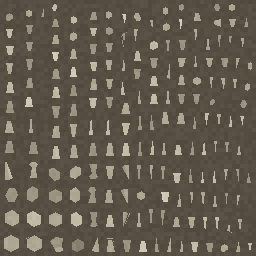
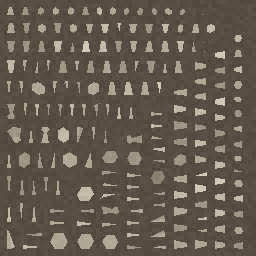
fauna: the Sapscrap's UVs are fixed, and the gate's last false positive with them
The shell shipped with faces 52 (8-gon) and 55 (6-gon) — sharing no vertex and no UV
corner — projecting to near-degenerate slivers that landed on the same two texels.
smart_project's own island_margin does not guarantee separation, and the obvious
remedies all fail: lowering angle_limit to 45/33/25 gives 18/26/6 folds against 2,
triangulating first gives 115, raising the margin to 0.05/0.09 gives 1/2. An explicit
pack_islands(margin=0.02) pass after the projection gives ZERO, and lifts coverage
from about 114k texels to 132k by packing tighter.

smart_project is also non-deterministic here — re-projecting at shipped settings gives
4 folds where the file had 2 — so any fix that merely tuned its parameters could never
have been trusted.

The gate's own false positive is closed with it. After packing, the audit still
reported 1 fold on a texel owned by faces 9 and 219, which share 2 vertices — an edge.
A texel centre landing exactly on a shared edge tests inside both faces under even-odd
point-in-polygon, so adjacency read as folding. That artefact scales with mesh density,
which is why triangulation showed 115. The check now ignores pairs sharing an edge.

Verified both ways: Sapscrap UV AUDIT PASS, the injected total-fold red proof still
FAILs, and candid/gnawer/meeb/naturalizer/hidra all still PASS. Repainted and
re-exported; scene load 8996/0.

gate_sapscrap.py could not run: it drives the live Blender session and expects
[…]

Changed region(s): [[0.0, 0.0, 1.0, 1.0], [0.5938, 0.0, 0.7188, 0.125], [0.0938, 0.375, 0.1562, 0.4688]]

diff --git a/to-rust-as-we-fall/docs/SHEET_AUDIT_BACKLOG.md b/to-rust-as-we-fall/docs/SHEET_AUDIT_BACKLOG.md
@@ -2319,3 +2319,42 @@ different islands by construction rather than by packing luck.
 
 I did not ship a change. Margin 0.05 is a measurable improvement but not a fix, and
 given the projector's non-determinism it would be luck rather than a correction.
+
+### sapscrap UVs — FIXED, and the gate's last false positive with it
+
+Director: the Sapscrap art is approved and the UVs are what need correcting. Done.
+
+**The fix is an explicit `pack_islands` pass after `smart_project`.** The shell shipped
+with faces 52 (8-gon) and 55 (6-gon) — sharing no vertex and no UV corner — projecting
+to near-degenerate slivers that landed on the same two texels. `smart_project`'s own
+`island_margin` does not guarantee separation. Measured across the alternatives:
+
+| attempt | folds |
+|---|---|
+| shipped (`angle_limit` 60, `island_margin` 0.02) | 2 |
+| lower `angle_limit` 45 / 33 / 25 | 18 / 26 / 6 |
+| triangulate first | 115 |
+| raise `island_margin` 0.05 / 0.09 | 1 / 2 |
+| **explicit `pack_islands(margin=0.02)`** | **0** |
+
+It also lifts coverage from about 114k texels to 132k, because packing tighter uses
+the sheet better. Note `smart_project` is NOT deterministic here — re-projecting at
+the shipped settings gives 4 folds where the file had 2 — which is why a fix that
+merely tunes its parameters could never be trusted.
+
+**And the gate's own false positive is closed.** After the pack pass the audit still
+reported 1 fold, on texel (350,82) owned by faces 9 and 219 — which share 2 vertices,
+i.e. an EDGE. A texel centre landing exactly on a shared edge tests inside both faces
+under an even-odd point-in-polygon rule, so adjacency was being counted as folding.
+That is why triangulating a shell took an apparent 4 folds to 115: the artefact scales
+with mesh density. The fold check now ignores pairs that share an edge.
+
+Verified both directions: Sapscrap **UV AUDIT PASS**; the injected total-fold red proof
+still FAILs; candid, gnawer, meeb, naturalizer and hidra all still PASS.
+
+Repainted and re-exported (`sapscrap.bin`, `sapscrap_shell.png`, `sapscrap_claw.png`).
+Scene load 8996/0.
+
+Caveat: `gate_sapscrap.py` could not run — it drives the LIVE Blender session over MCP
+and expects `Sapscrap_Rig` loaded there. That is an environment mismatch, not a result;
+run it with the Sapscrap open to get its verdict.
